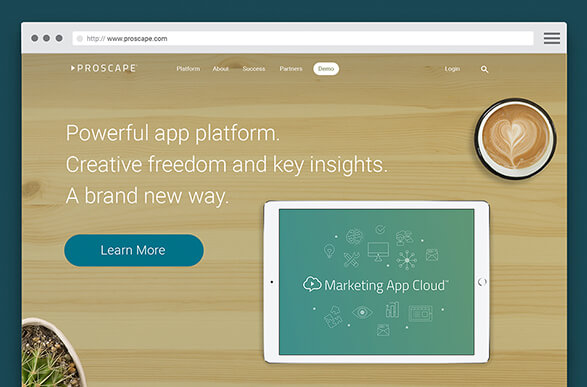
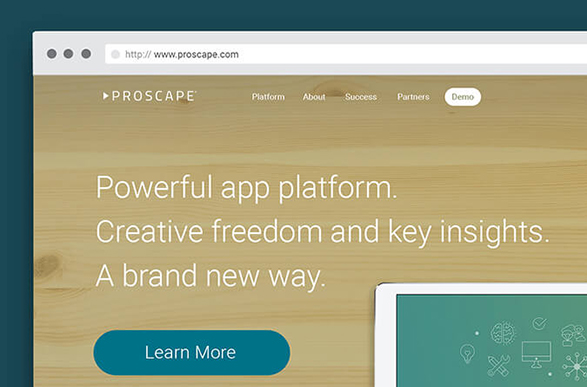
adding proscape website update

diff --git a/index.html b/index.html
@@ -93,10 +93,20 @@
                     <a href="#portfolioModal1" class="portfolio-link" data-toggle="modal">
                         <div class="caption">
                             <div class="caption-content">
-                                <h4>Web Design:</h4><h5>Proscape</h5>
+                                <h4>Web Design:</h4><h5>Proscape 2015</h5>
                             </div>
                         </div>
                         <img src="img/portfolio/TILE-J-proscape-web.jpg" class="img-responsive" alt="">
+                    </a>
+                </div>
+                   <div class="col-sm-4 portfolio-item">
+                    <a href="#portfolioModal16" class="portfolio-link" data-toggle="modal">
+                        <div class="caption">
+                            <div class="caption-content">
+                                <h4>Web Design:</h4><h5>Proscape 2016</h5>
+                            </div>
+                        </div>
+                        <img src="img/portfolio/TILE-Q-proscape-web.jpg" class="img-responsive" alt="">
                     </a>
                 </div>
                 <div class="col-sm-4 portfolio-item">
@@ -495,8 +505,6 @@
                           <img src="img/portfolio/J-website-homepage.jpg" class="img-responsive img-centered" alt="">
                           <img src="img/portfolio/J-website-studio.png" class="img-responsive img-centered" alt="">
                           <img src="img/portfolio/J-website-demo.jpg" class="img-responsive img-centered" alt="">
-                          <br><br>
-                          <center><div class="description-box"><div class="description"><center><h4>Proscape Website Update - Sept. 2016</h4></center><hr>After conducting interviews, analyzing data from our website, and several design thinking sessions, the creative team and I decided to refresh the homepage with a new approach. Our focus was to directly answer the big question our potential clients have been confused about, which is "How do we know if we fit with Proscape?"<br><br>Our conclusion was to tell a relatable, fun, and attention-grabbing story. Proscape is here to help agencies better their relationships with clients by offering an app making platform. In other words, we're an agency's perfect little secret.<br><br>Illustrations by the lovely <a style="color:black;" target="_blank"href="http://www.daniellecrodgers.com/">Danielle Rodgers</a>.</div></div></center><br><br><img src="img/portfolio/J-website-newhome.jpg" class="img-responsive img-centered" alt="">  
                             <center><button type="button" class="btn btn-default" data-dismiss="modal"><i class="fa fa-times"></i> Close</button></center>
                         </div>
                     </div>
@@ -628,6 +636,28 @@
                         <div class="modal-body">
                             <center><div class="description-box"><div class="description"><center><h4>The Marketing App Cloud - Hub</h4></center><hr>Hub is a program that is integrated with the Marketing App Cloud platform. Hub organizes the users, user roles, projects, and much more for clients who are using the platform to create mobile marketing apps. Below is the Hub dashboard, login, and sign up process that I designed. My main focus was to have clear instruction and ease of use. </div></div></center><br><br>
                           <img src="img/portfolio/P-hub.jpg" class="img-responsive img-centered" alt=""><img src="img/portfolio/P-1-Login.jpg" class="img-responsive img-centered" alt=""><img src="img/portfolio/P-2-Signup.jpg" class="img-responsive img-centered" alt=""><img src="img/portfolio/P-3-error.jpg" class="img-responsive img-centered" alt=""><img src="img/portfolio/P-4-step2.jpg" class="img-responsive img-centered" alt=""><img src="img/portfolio/P-5-filledout.jpg" class="img-responsive img-centered" alt=""><img src="img/portfolio/P-6-confirm.jpg" class="img-responsive img-centered" alt=""><img src="img/portfolio/P-7-setup.jpg" class="img-responsive img-centered" alt="">
+                          <br>
+                            <center><button type="button" class="btn btn-default" data-dismiss="modal"><i class="fa fa-times"></i> Close</button></center>
+                        </div>
+                    </div>
+                </div>
+            </div>
+        </div>
+    </div>
+    <div class="portfolio-modal modal fade" id="portfolioModal16" tabindex="-1" role="dialog" aria-hidden="true">
+        <div class="modal-content">
+            <div class="close-modal" data-dismiss="modal">
+                <div class="lr">
+                    <div class="rl">
+                    </div>
+                </div>
+            </div>
+            <div class="container">
+                <div class="row">
+                    <div class="col-lg-8 col-lg-offset-2">
+                        <div class="modal-body">
+                            <center><div class="description-box"><div class="description"><center><h4>Proscape Website Update</h4></center><hr>After conducting interviews, analyzing data from our website, and several design thinking sessions, the creative team and I decided to refresh the homepage with a new approach. Our focus was to directly answer the big question our potential clients have been confused about, which is "How do we know if we fit with Proscape?"<br><br>Our conclusion was to tell a relatable, fun, and attention-grabbing story. Proscape is here to help agencies better their relationships with clients by offering an app making platform. In other words, we're an agency's perfect little secret.<br><br>Illustrations by the lovely <a style="color:black;" target="_blank"href="http://www.daniellecrodgers.com/">Danielle Rodgers</a>. </div></div></center><br><br>
+                          <img src="img/portfolio/J-website-newhome.jpg" class="img-responsive img-centered" alt="">
                           <br>
                             <center><button type="button" class="btn btn-default" data-dismiss="modal"><i class="fa fa-times"></i> Close</button></center>
                         </div>
